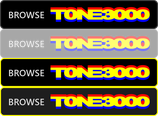
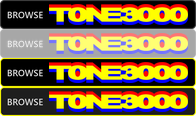
TONE3000 button: wordmark at near full height, resized once
At 15 px in the 29 px button the wordmark's red and blue layers became
one-pixel slivers and it read as low resolution at 100% scaling. It is now
21 px tall, reduced in a single step from the source, and the buttons are
196 / 150 / 32 wide (the banner still picks the widest that fits).

diff --git a/nav_banner.js b/nav_banner.js
@@ -22,7 +22,7 @@ function navigationBannerLayout(redo, limits) {
       || redo.w <= 0 || redo.h <= 0 || redo.x < 0 || redo.y < 0) return null;
   const left = Math.ceil(redo.x + redo.w + 7);
   const space = Math.floor(limits.right - 7 - left);
-  for (const [id, width] of [['t3bf', 158], ['t3bc', 84], ['t3bi', 32]]) {
+  for (const [id, width] of [['t3bf', 196], ['t3bc', 150], ['t3bi', 32]]) {
     if (space >= width) return { id, left, top: Math.round(redo.y), width };
   }
   return null; // Never overlap existing controls in a window too narrow to fit.

diff --git a/make_category_icons.py b/make_category_icons.py
@@ -113,8 +113,9 @@ def lock_buttons():
 # stacked like HX Edit's push buttons: normal, disabled, pressed, hover. "BROWSE" is drawn with a
 # Windows font (needs Pillow).
 BANNER_OUT = Path(__file__).with_name('nav_images')
-BANNER_SIZES = (('t3_browse.png', 158), ('t3_wordmark.png', 84), ('t3_short.png', 32))
+BANNER_SIZES = (('t3_browse.png', 196), ('t3_wordmark.png', 150), ('t3_short.png', 32))
 LOGO_T_WIDTH = 0.133          # the T's share of the wordmark's width
+LOGO_HEIGHT = 21              # of 29: the wordmark is only legible at nearly full button height
 
 
 def _font(name, size):
@@ -123,30 +124,32 @@ def _font(name, size):
 
 
 def banner_frame(width, height, state):
+    # Key and label drawn at 4x and reduced; the wordmark is reduced once, straight from the
+    # source to its final size, so its thin coloured layers keep their edges.
     scale = 4
     w, h = width * scale, height * scale
-    image = Image.new('RGBA', (w, h), (0, 0, 0, 0))
-    draw = ImageDraw.Draw(image)
+    key = Image.new('RGBA', (w, h), (0, 0, 0, 0))
+    draw = ImageDraw.Draw(key)
     fill = {'normal': (0, 0, 0, 255), 'disabled': (0, 0, 0, 160), 'pressed': (0, 0, 0, 255), 'hover': (30, 30, 30, 255)}[state]
     edge = {'normal': (64, 64, 64, 255), 'disabled': (48, 48, 48, 160), 'pressed': (255, 255, 0, 255), 'hover': (255, 255, 0, 255)}[state]
     draw.rounded_rectangle([0, 0, w - 1, h - 1], radius=4 * scale, fill=fill, outline=edge, width=scale)
     logo = Image.open(BANNER_OUT / 'tone3000-logo.png').convert('RGBA')
     if width < 60:
         logo = logo.crop((0, 0, round(logo.width * LOGO_T_WIDTH), logo.height))
-    mark_h = (15 if width >= 150 else 12 if width >= 80 else 17) * scale
-    mark = logo.resize((round(logo.width * mark_h / logo.height), mark_h), Image.LANCZOS)
-    if width >= 150:
+    mark = logo.resize((round(logo.width * LOGO_HEIGHT / logo.height), LOGO_HEIGHT), Image.LANCZOS)
+    left = (width - mark.width) // 2
+    if width >= 190:
         small = _font('seguisb.ttf', 9 * scale)
-        label, gap = 'BROWSE', 6 * scale
-        lw = draw.textlength(label, font=small)
-        x = round((w - (lw + gap + mark.width)) / 2)
-        draw.text((x, h / 2), label, font=small, anchor='lm', fill=(220, 220, 220, 255))
-        image.alpha_composite(mark, (round(x + lw + gap), (h - mark.height) // 2))
-    else:
-        image.alpha_composite(mark, ((w - mark.width) // 2, (h - mark.height) // 2))
+        label, gap = 'BROWSE', 6
+        lw = draw.textlength(label, font=small) / scale
+        left = round((width - (lw + gap + mark.width)) / 2)
+        draw.text((left * scale, h / 2), label, font=small, anchor='lm', fill=(220, 220, 220, 255))
+        left = round(left + lw + gap)
+    image = key.resize((width, height), Image.LANCZOS)
+    image.alpha_composite(mark, (left, (height - mark.height) // 2))
     if state == 'disabled':
         image.putalpha(image.getchannel('A').point(lambda a: a * 55 // 100))
-    return image.resize((width, height), Image.LANCZOS)
+    return image
 
 
 def banner_buttons():

diff --git a/nav_resources.py b/nav_resources.py
@@ -10,7 +10,9 @@ from pathlib import Path
 import xml.etree.ElementTree as ET
 
[1 lines of base64/hex data omitted]
-BUTTONS = (('t3bf', 'Browse TONE3000', 158), ('t3bc', 'TONE3000', 84), ('t3bi', 'T3', 32))
+# Wide enough for the TONE3000 wordmark at nearly full button height (at 15 px it was too small to
+# read: its red and blue layers became one-pixel slivers).
+BUTTONS = (('t3bf', 'Browse TONE3000', 196), ('t3bc', 'TONE3000', 150), ('t3bi', 'T3', 32))
 
 
 def _verify_executable(app: Path) -> None:
